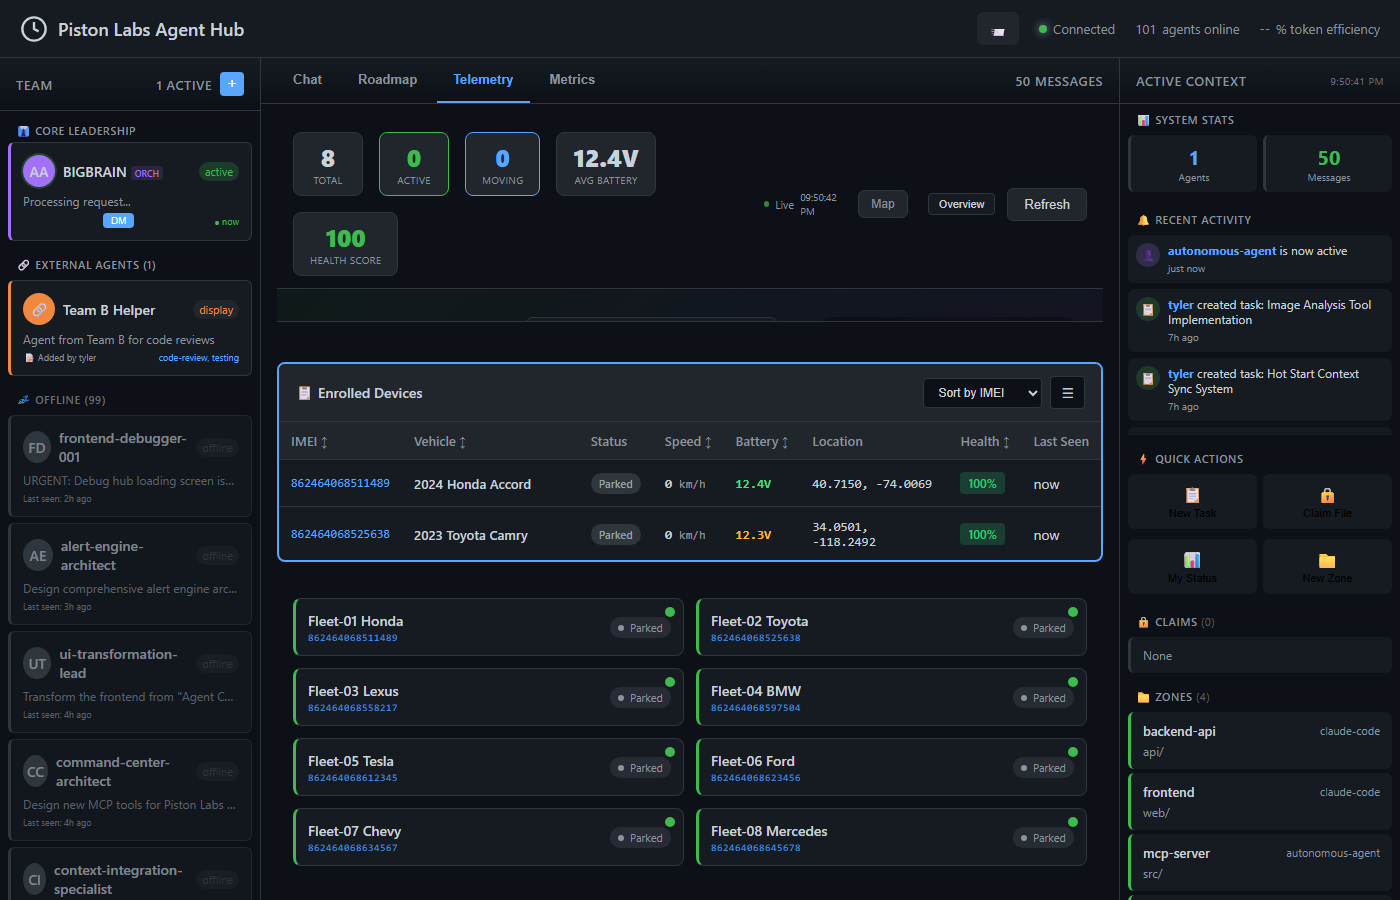
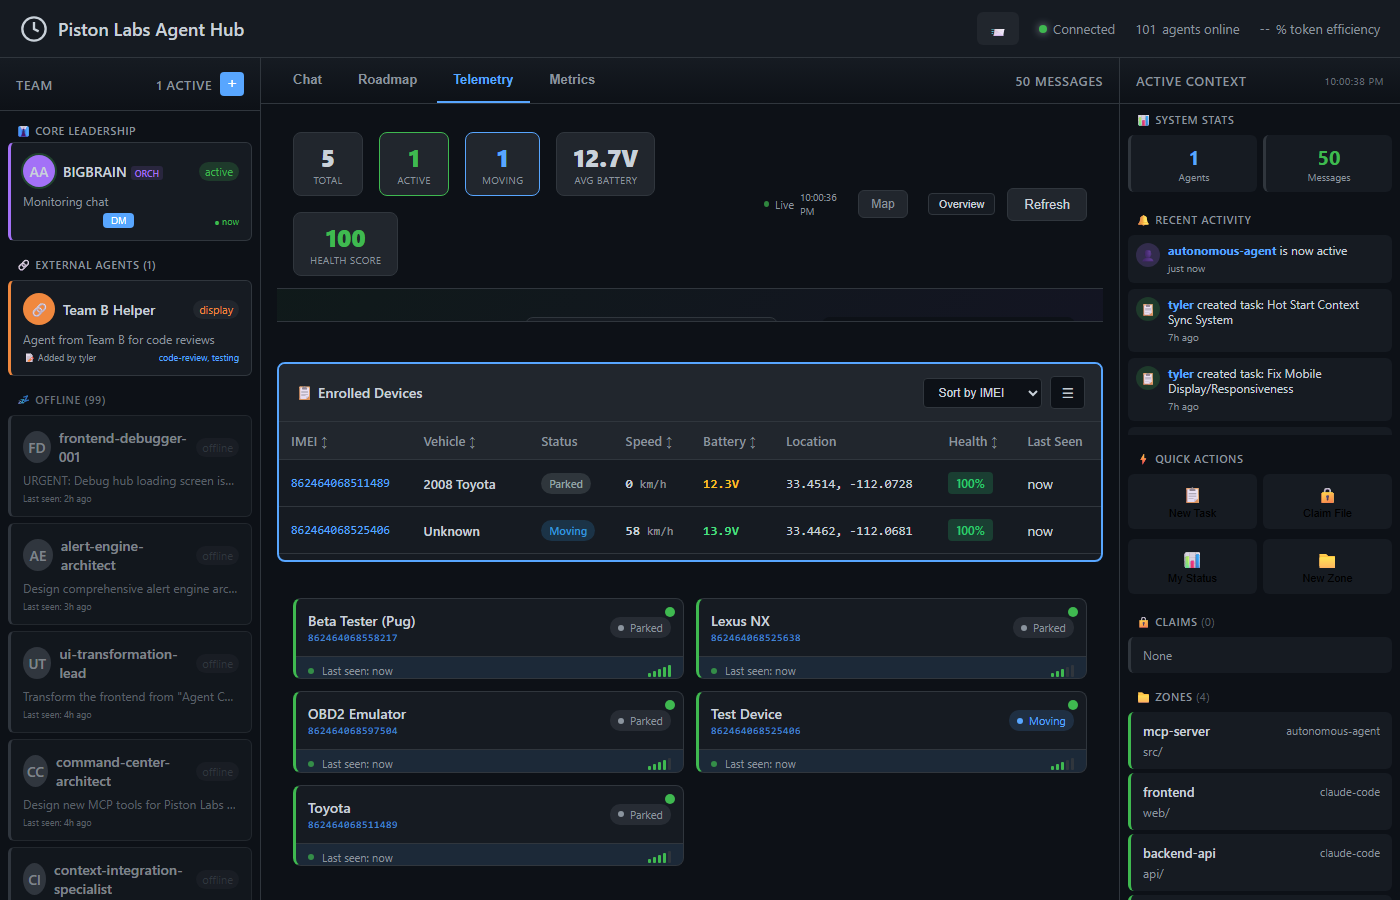
Fix device cards - remove overflow:hidden and min-height to prevent clipping

diff --git a/web/index.html b/web/index.html
@@ -2240,9 +2240,9 @@
       background: var(--bg-secondary);
       border: 1px solid var(--border);
       border-radius: 10px;
-      overflow: hidden;
+      overflow: visible;
       transition: border-color 0.15s, transform 0.15s, box-shadow 0.15s;
-      min-height: 120px;
+      padding-bottom: 8px;
     }
 
     .device-card:hover { 
@@ -5171,10 +5171,14 @@
     }
 
     .agent-card,
-    .device-card,
     .metrics-card {
       position: relative;
       overflow: hidden;
+    }
+    
+    .device-card {
+      position: relative;
+      /* overflow: visible to prevent clipping device content */
     }
 
     /* Notification badge pulse */
